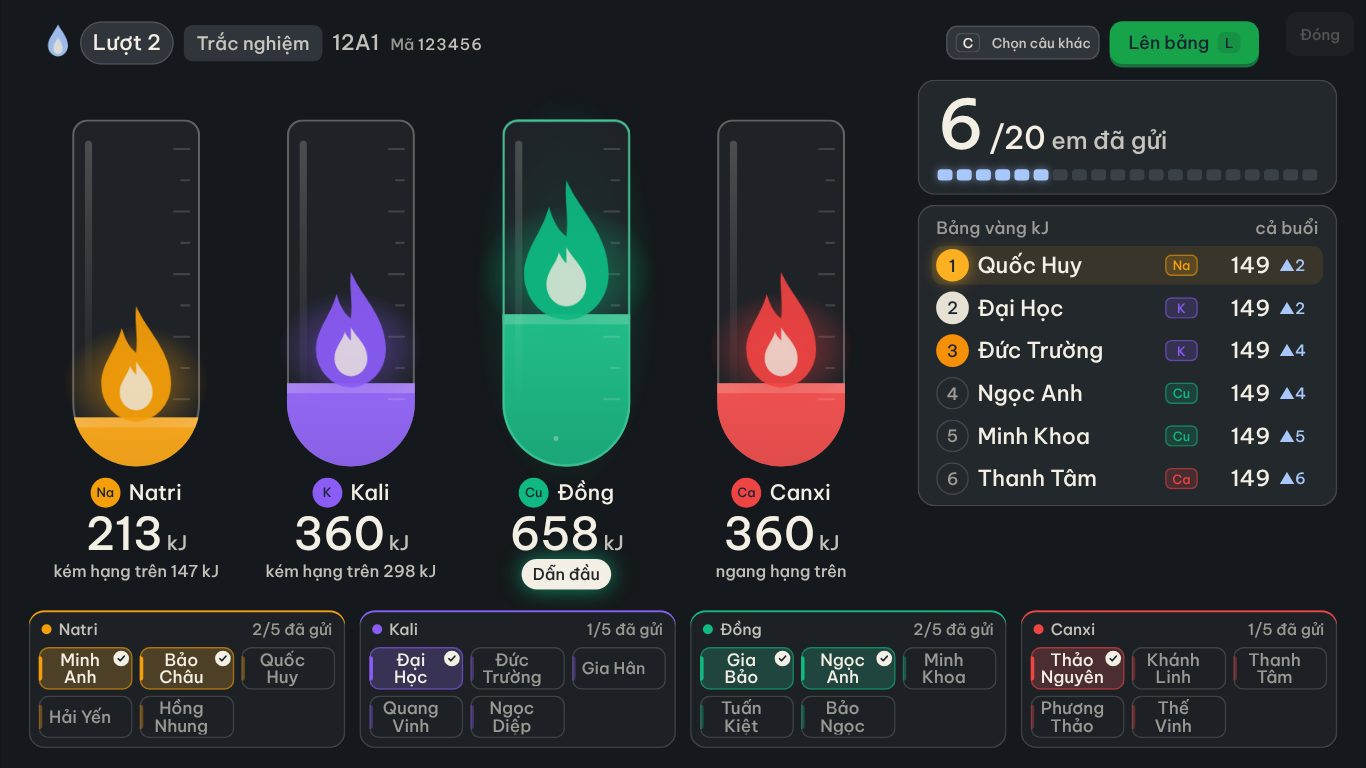
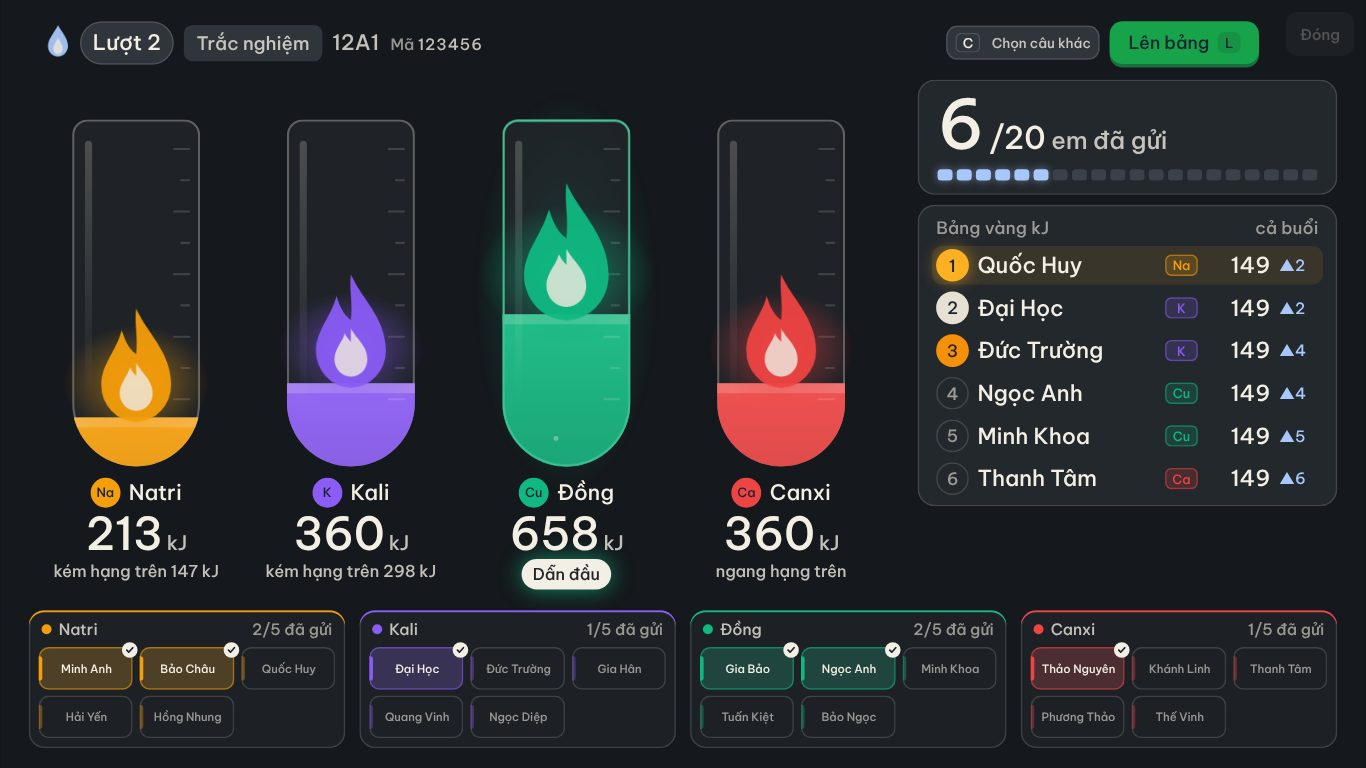
Dải tên theo đội: MỘT cỡ chữ chung cả dải, tên đầy đủ một dòng theo tên dài nhất (hai dòng / mỗi ô một cỡ trông lộn xộn); dấu đã gửi ra góc ngoài ô; màn máy em khai xinToanMan trước khi dùng (cổng lint)
Claude-Session: https://claude.ai/code/session_01Ghxeuws3PppP7uS2JteAn5

diff --git a/src/components/bpu/bpu-thap.css b/src/components/bpu/bpu-thap.css
@@ -129,7 +129,7 @@
 .bpu-bang .bb-tl-nhom .dau i{ flex: none; width: 14px; height: 14px; border-radius: 50%; background: var(--doi); }
 .bpu-bang .bb-tl-nhom .dau span{ margin-left: auto; color: var(--tr-chu-3); font-weight: 700; }
 .bpu-bang .bb-tl-nhom .luoi{ display: grid; gap: 8px 10px; align-content: start; }
-.bpu-bang .bb-tl-o{ position: relative; display: flex; align-items: center; justify-content: center; min-width: 0; padding: 0 30px 0 14px; border-radius: 14px; color: var(--tr-chu-3);
+.bpu-bang .bb-tl-o{ position: relative; display: flex; align-items: center; justify-content: center; min-width: 0; padding: 0 12px 0 14px; border-radius: 14px; color: var(--tr-chu-3);
   box-shadow: inset 0 0 0 2px var(--tr-vien); }
 .bpu-bang .bb-tl-o .ten{ min-width: 0; overflow: hidden; white-space: nowrap; font-size: var(--co, 27px); font-weight: 600; text-align: center; overflow-wrap: normal; word-break: keep-all; }
 .bpu-bang .bb-tl-o::before{ content: ""; position: absolute; left: 0; top: 22%; bottom: 22%; width: 5px; border-radius: 0 4px 4px 0; background: var(--doi); opacity: 0.35; }
@@ -139,12 +139,12 @@
 .bpu-bang .bb-tl-o.gui{ color: var(--tr-chu); background: color-mix(in srgb, var(--doi) 20%, var(--tr-mat)); box-shadow: inset 0 0 0 2px color-mix(in srgb, var(--doi) 55%, transparent); }
 .bpu-bang .bb-tl-o.gui .ten{ font-weight: 800; }
 .bpu-bang .bb-tl-o.gui::before{ opacity: 1; }
-.bpu-bang .bb-tl-o .dau{ position: absolute; right: 5px; top: 5px; width: 22px; height: 22px; border-radius: 50%; display: grid; place-items: center; background: var(--giay); }
+.bpu-bang .bb-tl-o .dau{ position: absolute; right: -7px; top: -7px; z-index: 1; width: 22px; height: 22px; border-radius: 50%; display: grid; place-items: center; background: var(--giay); }
 .bpu-bang .bb-tl-o .dau svg{ width: 14px; height: 14px; stroke: var(--p-muc); stroke-width: 3.4; fill: none; stroke-linecap: round; stroke-linejoin: round; }
 .bpu-bang .bb-tl-o .bb-tl-hc{ position: absolute; right: 4px; top: 4px; width: 26px; height: 26px; font-size: 16px; }
 /* Lớp đông (3 hàng, ô thấp): dấu ✓ / huy hiệu nhỏ lại ở góc, chừa chỗ cho tên. */
-.bpu-bang .bb-tl-nhom .luoi.thap .bb-tl-o{ padding: 0 24px 0 12px; }
-.bpu-bang .bb-tl-nhom .luoi.thap .bb-tl-o .dau{ right: 3px; top: 3px; width: 17px; height: 17px; }
+.bpu-bang .bb-tl-nhom .luoi.thap .bb-tl-o{ padding: 0 10px 0 12px; }
+.bpu-bang .bb-tl-nhom .luoi.thap .bb-tl-o .dau{ right: -6px; top: -6px; width: 17px; height: 17px; }
 .bpu-bang .bb-tl-nhom .luoi.thap .bb-tl-o .dau svg{ width: 11px; height: 11px; }
 .bpu-bang .bb-tl-nhom .luoi.thap .bb-tl-o .bb-tl-hc{ right: 2px; top: 2px; width: 20px; height: 20px; font-size: 13px; }
 .bpu-bang .bb-tl-o.roi{ color: var(--tr-chu); box-shadow: inset 0 0 0 3px var(--tr-sai); background: color-mix(in srgb, var(--tr-sai) 10%, transparent); }

diff --git a/src/components/bpu/vua-chu.ts b/src/components/bpu/vua-chu.ts
@@ -29,3 +29,23 @@ export function vuaChuTrong(goc: ParentNode | null | undefined, chon: string, mi
   const khoa = ds.map((el) => `${el.textContent}|${el.parentElement?.className ?? ''}|${el.parentElement?.clientWidth ?? 0}|${el.parentElement?.clientHeight ?? 0}|${coGoc}`)
   ds.forEach((el, i) => { if (el.dataset[KHOA] === khoa[i]) return; vuaChu(el, min, haiDong); el.dataset[KHOA] = khoa[i] })
 }
+
+/** MỘT CỠ CHỮ CHUNG cho cả nhóm ô (10/11: dải tên theo đội — mỗi ô một cỡ trông lộn xộn): cỡ = cỡ lớn nhất mà tên DÀI NHẤT vẫn nằm trọn một dòng
+ *  (không dưới `min`). Đọc hết một lượt (đo ở cỡ gốc), rồi ghi một lượt. Nhóm không đổi chữ / bề ngang / cỡ gốc ⇒ bỏ qua. */
+export function vuaChuDeu(goc: ParentNode | null | undefined, chon: string, min: number, coGoc = ''): void {
+  if (!goc) return
+  const ds = [...goc.querySelectorAll<HTMLElement>(chon)]
+  if (!ds.length) return
+  const khoa = ds.map((el) => `${el.textContent}|${el.parentElement?.className ?? ''}|${el.clientWidth}`).join('¦') + `|${coGoc}`
+  const dau = ds[0]!
+  if (dau.dataset[KHOA] === khoa) return
+  for (const el of ds) { el.style.fontSize = ''; el.style.whiteSpace = ''; el.style.lineHeight = '' }
+  let co = Infinity
+  for (const el of ds) {
+    const g = parseFloat(getComputedStyle(el).fontSize) || 24
+    co = Math.min(co, el.scrollWidth > el.clientWidth + 1 ? Math.floor(g * (el.clientWidth / el.scrollWidth)) : g)
+  }
+  const c = `${Math.max(min, co)}px`
+  for (const el of ds) el.style.fontSize = c
+  dau.dataset[KHOA] = khoa
+}

diff --git a/src/components/bpu/ThapLua.tsx b/src/components/bpu/ThapLua.tsx
@@ -6,7 +6,7 @@
 import { useLayoutEffect, useRef } from 'react'
 import { DOI_BPU, KJ, type ViewBang } from '../../lib/bpu/phong'
 import { mauDoi } from './ong-ket-qua'
-import { vuaChuTrong } from './vua-chu'
+import { vuaChuDeu, vuaChuTrong } from './vua-chu'
 import { boCucThap, chuoiDaiNhat, dapAnDs, dapSo, dauTheo, kjDoi, soKj, thangOng, thuTuDoi, xepVang, type Em } from './dua-top'
 import './bpu-thap.css'
 
@@ -50,10 +50,10 @@ export default function ThapLua({ v, l, truoc, len, tenGoi, tenHien, an, toanMan
   const vang = xepVang(v), chuoi = mo ? null : chuoiDaiNhat(v)
   const soDung = Object.values(kq).filter((x) => x.dung).length
 
-  // TÊN VỪA Ô (thầy 10/11 «tên đầy đủ đọc được, không cắt "…"»): dải đội = tên gọi hai chữ («Đại Học»), thu cỡ chữ cho vừa, ô chật thì xuống hai dòng;
+  // TÊN VỪA Ô (thầy 10/11 «tên đầy đủ đọc được, không cắt "…"»): dải đội = tên gọi hai chữ («Đại Học»), MỘT cỡ chữ chung cả dải, một dòng, theo tên dài nhất (10/11: hai dòng / mỗi ô một cỡ trông lộn xộn);
   // Bảng vàng / nhanh nhất / chuỗi đúng thu cỡ chữ một dòng. Ô chữ không đổi thì bỏ qua (vua-chu.ts).
   useLayoutEffect(() => {
-    vuaChuTrong(goc.current, '.bb-tl-o .ten', 13, true, String(B.coChu))
+    vuaChuDeu(goc.current, '.bb-tl-o .ten', 15, String(B.coChu))
     vuaChuTrong(goc.current, '.bb-tl-hang .t, .bb-tl-chuoi .c2', 18)
   })
 

diff --git a/src/components/bpu/ManBinhPhanUng.tsx b/src/components/bpu/ManBinhPhanUng.tsx
@@ -400,8 +400,8 @@ export default function ManBinhPhanUng({ token, buoiId, onDong, giuNoi = false, 
   // CHẠM ĐẦU (10/11): bắt ở `click` chứ không ở `pointerdown` — theo chuẩn HTML, `pointerdown` của ngón tay KHÔNG tính là thao tác người dùng (chỉ
   // `pointerup` / `touchend` / `click`) ⇒ trên điện thoại xin toàn màn hình / xin quyền ở `pointerdown` bị từ chối âm thầm. Xin quyền IdleDetector TRƯỚC:
   // `requestFullscreen` tiêu mất lượt thao tác.
-  const chamDau = () => { xinQuyenTatMan(); xinToanMan() }
   const xinToanMan = () => { try { const d = document.documentElement as HTMLElement & { requestFullscreen?: () => Promise<void> }; if (!document.fullscreenElement && d.requestFullscreen) void d.requestFullscreen().catch(() => {}) } catch { /* bỏ qua */ } }
+  const chamDau = () => { xinQuyenTatMan(); xinToanMan() }
 
   const l = v?.luot ?? null
   const e = v?.em ?? null
